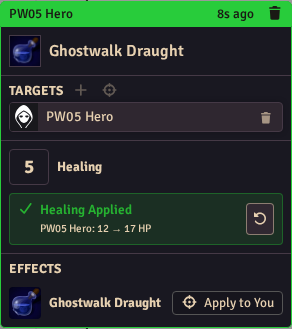
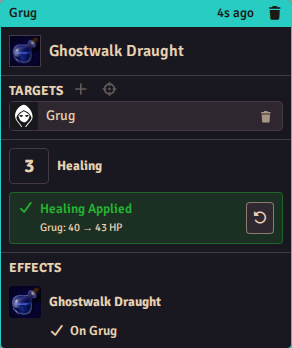
docs(effects): How an effect works, with a picture of each step
Pictures of the Effects tab of an item, the self Apply Effect step, the held
change line in the roll window and a free use line. The Activation tab and
Ghostwalk Draught pictures show On use and a self effect that went on by itself.

Changed region(s): [[0.0, 0.0, 1.0, 1.0], [0.8938, 0.304, 0.9247, 0.3951], [0.1541, 0.4255, 0.1849, 0.4559]]

diff --git a/docs/documentation/homebrew/effects.md b/docs/documentation/homebrew/effects.md
@@ -6,6 +6,32 @@ title: "Effects and Lasts Until"
 
 An effect is something that is on a creature for a time: a condition, a change to its numbers from a spell, a mark from a feature. Each effect has its own window, where you set what it does and how long it lasts.
 
+## How an effect works
+
+Every effect goes the same way. In this example, Tessa casts True Strike on Grug.
+
+**1. It goes on.** The card has an **Effects** part. An effect for the targets has an **Apply to Targets** button. An effect for the creature that uses the item goes on by itself. The line under the name says how long the effect lasts.
+
+![Tessa's True Strike card: Grug is the target, and the Effects part has True Strike, until their next attack or the end of their next turn, with Apply to Targets](/images/documentation/effect-life-1-card.png)
+
+**2. It shows on the sheet.** The **Effects** tab of the creature lists the effect and its Lasts Until.
+
+![The Effects tab of Grug's sheet: True Strike, until your next attack, or until the end of your next turn](/images/documentation/effect-life-2-sheet.png)
+
+**3. It ends.** The first moment in its Lasts Until ends it. When a roll or a use ends it, a line goes in the **Events** part at the bottom of that card. Here Grug's attack used the advantage.
+
+![Grug's Battleaxe card: advantage on the roll, and in Events, True Strike ended on Grug, this roll used it, with Undo](/images/documentation/effect-life-3-ended-line.png)
+
+When nothing in the chat ended it, such as the end of a turn, one message for that moment has a line for each effect that ended.
+
+![The message for the end of Grug's turn: True Strike ended on Grug, until the end of your next turn, with Undo](/images/documentation/effect-life-4-moment.png)
+
+**4. Undo puts it back.** **Undo** on the line puts the effect back on the creature, and the line then says "On Grug". The owner of the creature and the GM can use it. The effect keeps its old start, so it ends again at the next moment that matches.
+
+![The same Battleaxe card after Undo: the line says On Grug](/images/documentation/effect-life-3b-undone.png)
+
+A GM must be connected for an effect to end by itself.
+
 ## Open the effect window
 
 On the character or NPC sheet, go to the **Effects** tab and click the pen at the end of the effect's row. An effect that an item keeps on (a passive effect of armor, for example) opens its item instead, because you change it there. The pen of a condition opens the effect that gives it. A condition with no effect of its own on the creature, such as Bloodied or a condition that an item keeps on, has no pen. For an effect of an item, use the [Effects tab of the item](#item-effects).
@@ -40,6 +66,10 @@ A state that a creature turns on, such as Rage, is an item effect. The effect is
 2. On the effect's **Rules** tab, add a **Tags** rule, such as `self:raging`, so that other rules can read the state. Add an **Empty pools at end** rule for each dice pool that the end empties.
 3. On **Activation → On use**, add an **Apply Effect** step. Set **Who takes it** to **The creature that uses this**, and pick the effect.
 
+![The Effects tab of the Rage item: the Raging effect, its Lasts Until, and Used by: On use: Apply Effect](/images/documentation/item-effects-tab.png)
+
+![The Apply Effect step of Rage on the On use tab: the effect Raging, and Who takes it set to The creature that uses this](/images/documentation/item-on-use-self-step.png)
+
 When the creature uses the item, the effect goes on it. The row of the item on the sheet shows **Active** while the creature has an effect that the item gave. To end the state by hand, delete the effect on the **Effects** tab of the sheet. Another feature can change the state with a **Change an effect** rule, or use the item for free with a **Use an item for free** rule. See [Rules for effects and states](../rules-builder/index.md#rules-for-effects-and-states).
 
 ::: details Using the item again, and ending the state
@@ -66,13 +96,15 @@ The tab is a sentence. Each row is one moment, and each word in a box is a choic
 
 They can attack, move, cast a spell, cast a tiered spell, make a roll (an attack, a save or a check), deal damage, take damage, be Healed, drop to 0 HP or die. You can attack, cast a spell, drop to 0 HP, die, lose Concentration or use this again.
 
-The first moment that happens ends the effect. An effect with no moment stays until someone removes it. An older effect can also have a core duration, such as 1 round; the tab shows it, and it still ends the effect. When an effect ends, the chat says so, with an Undo button: see [How long a condition lasts](../playing/conditions.md#how-long-a-condition-lasts).
+The first moment that happens ends the effect. An effect with no moment stays until someone removes it. An older effect can also have a core duration, such as 1 round; the tab shows it, and it still ends the effect. When an effect ends, a line in the **Events** part of a card says so, with **Undo**: see [How an effect works](#how-an-effect-works).
 
 ## Hold a change for the next attack
 
 An effect with a **Held Roll Change** rule (on its **Rules** tab) changes a later attack: the next attack of the creature that has it, or the next attack against that creature. The change can be advantage, a number added to the Primary Die, every die at its highest number, and more. With **The roll uses it up** on, the first attack that uses the change ends the effect, and the Lasts Until sentence starts with "until their next attack" or "until the next attack against them". The Lasts Until moments also end it in time.
 
-For example, True Strike holds advantage for the next attack of its target, until the end of their next turn. The roll window shows a line for each held change that the attack uses.
+For example, True Strike holds advantage for the next attack of its target, until the end of their next turn. The roll window shows a line for each held change that the attack uses. The card of the attack then has a line in **Events** for each change that the roll used up, with **Undo**.
+
+![The roll window of Grug's Battleaxe: True Strike, +1 advantage, this roll spends it](/images/documentation/held-roll-window.png)
 
 ::: details More about held changes
 - **Melee attacks only**: only a melee attack uses the change. An attack with no attack type counts as melee.

diff --git a/docs/documentation/playing/dice-and-chat.md b/docs/documentation/playing/dice-and-chat.md
@@ -136,7 +136,13 @@ The line under the name tells how many actions a hero starts combat with: 1, 2 w
 
 Some things happen because of a roll or a use: an effect ends, a feature is used for free, a pool gains dice, a creature can move for free, a hero Interposes. They show as lines in the **Events** strip at the bottom of the card that caused them, not as new messages. Each line says what happened and why.
 
-When nothing on the chat caused it, such as the start of a turn, the end of a round or a time that passes, the chat gets one message for that moment, with a line for each event. A feature used for free with nothing to click is one line, not a card of its own. **Undo** on the line of an ended effect puts that effect back. See [How long a condition lasts](conditions.md#how-long-a-condition-lasts).
+When nothing on the chat caused it, such as the start of a turn, the end of a round or a time that passes, the chat gets one message for that moment, with a line for each event. A feature used for free with nothing to click is one line, not a card of its own.
+
+![A Goblin's critical hit on Grug: in Events, Grug uses Rage for free, because an enemy hit them with a crit (Titan's Fury)](/images/documentation/events-free-use.png)
+
+**Undo** on the line of an ended effect puts that effect back. See [How an effect works](../homebrew/effects.md#how-an-effect-works) for pictures of each step, and [How long a condition lasts](conditions.md#how-long-a-condition-lasts).
+
+
 
 A line for the GM only goes on a card that only the GM sees, or in a whisper to the GM. An Interpose against an attack that only the GM sees gets its own message, so the players see it.
 

diff --git a/docs/documentation/homebrew/activations.md b/docs/documentation/homebrew/activations.md
@@ -11,7 +11,7 @@ An **activation** is everything that happens when a player clicks an item: what 
 
 The **Activation** tab appears on objects, spells, features, and monster features, and is split into three sub-tabs: **Core**, **Targets**, and **On use**. The effects that the item holds are on its own **Effects** tab: see [Item effects](effects.md#item-effects).
 
-![The Activation tab of an item with the Core / Targets / Effects sub-tab bar visible](/images/documentation/item-activation-and-effects.png)
+![The Activation tab of an item with the Core / Targets / On use sub-tab bar visible](/images/documentation/item-activation-and-effects.png)
 
 ## The Core sub-tab
 
@@ -133,7 +133,7 @@ Holding **Alt** while clicking the item skips the window and rolls with defaults
 - an **Effects** part with a row for each Apply Effect entry. An entry for the targets has an **Apply to Targets** button. An entry for the user applies by itself and shows "On" and the name. With the Feature Effects automation setting off, it has an **Apply to You** button,
 - any **notes**, styled by their note type.
 
-![A chat card for the Ghostwalk Draught: the healing it gave the drinker, and the effect with Apply to You](/images/documentation/ghostwalk-draught-chat-card.png)
+![A chat card for the Ghostwalk Draught: the healing it gave the drinker, and the effect that went on by itself, On Grug](/images/documentation/ghostwalk-draught-chat-card.png)
 
 ## The Macro tab
 

diff --git a/docs/documentation/playing/conditions.md b/docs/documentation/playing/conditions.md
@@ -75,7 +75,9 @@ On the Effects tab, the row reads the Lasts Until and the source: "Until the end
 
 When effects end, each one gets a line in the **Events** strip of the card that ended it, such as the card of the attack that ended "until they attack". With no such card, the chat gets one message for that moment, such as "Start of Tessa's turn", with a line for each effect that ended. **Undo** on a line puts that effect back. The owner of the creature and the GM can use it. The effect keeps its old start, so it ends again at the next matching moment. Going back a turn in the combat tracker does not bring effects back.
 
-![The message for one moment: three effects ended, one put back with Undo](/images/documentation/effects-ended-message.png)
+![The message for the end of Grug's turn: True Strike ended on Grug, with Undo](/images/documentation/effect-life-4-moment.png)
+
+The pictures of every step are in [How an effect works](../homebrew/effects.md#how-an-effect-works).
 
 **The same condition again.** When a creature that has a condition gets it again, the one that lasts longer stays. A second Taunted always takes the place of the first, so the most recent taunter counts.
 
